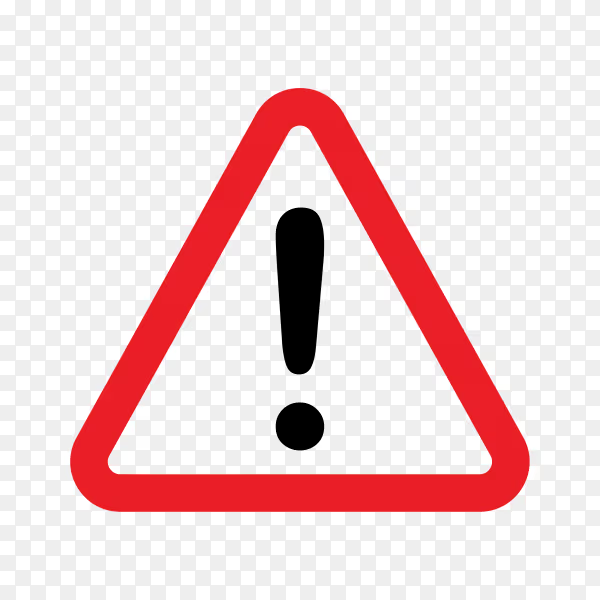
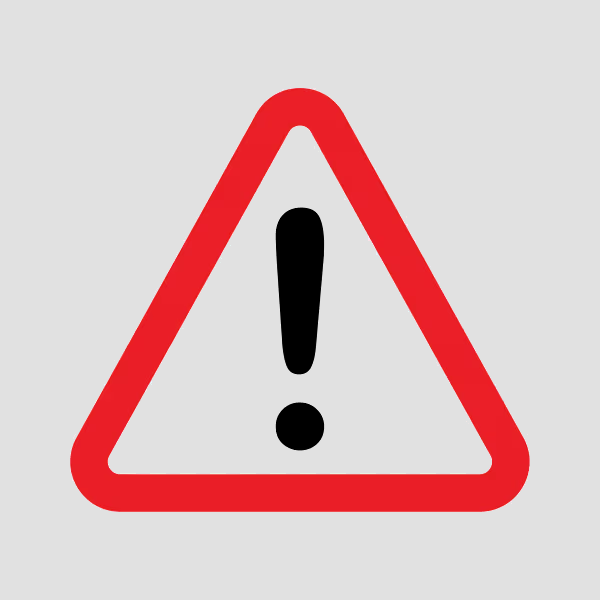
Polish mobility hazard popup UI and tighten alert timing.
Use the cluster green/gray palette, a shrinking countdown bar without a numeric timer, a matching warning icon fill, 3s display duration, and a 3-marker proximity window.

diff --git a/apps/Cluster/qtApp/qml/Screen01.ui.qml b/apps/Cluster/qtApp/qml/Screen01.ui.qml
@@ -515,43 +515,18 @@ Rectangle {
             NumberAnimation { duration: 320; easing.type: Easing.OutCubic }
         }
 
-        property real countdownProgress: 1.0
-
-        function restartCountdown() {
-            if (!systemInfo || !systemInfo.adasWarningTimed)
-                return
-            countdownProgress = 1.0
-            countdownAnim.stop()
-            countdownAnim.duration = Math.max(systemInfo.adasWarningRemainingMs, 250)
-            countdownAnim.from = 1.0
-            countdownAnim.to = 0.0
-            countdownAnim.start()
-        }
-
-        NumberAnimation on countdownProgress {
-            id: countdownAnim
-            duration: 12000
-            easing.type: Easing.Linear
-        }
-
-        Connections {
-            target: systemInfo
-            function onAdasWarningUpdated() {
-                if (systemInfo.adasWarningVisible)
-                    adasWarningNotification.restartCountdown()
-            }
-        }
-
-        onOpacityChanged: {
-            if (opacity > 0.99)
-                restartCountdown()
+        // Drive bar from backend remaining ms so it shrinks every poll (~100ms).
+        property real countdownProgress: {
+            if (!systemInfo || !systemInfo.adasWarningTimed || !systemInfo.adasWarningVisible)
+                return 0
+            return Math.max(0, Math.min(1, systemInfo.adasWarningRemainingMs / 3000.0))
         }
 
         Rectangle {
             anchors.fill: parent
             radius: 12
-            color: "#FFE18D"
-            border.color: "#47473f"
+            color: "#e1e1e1"
+            border.color: "#7aa854"
             border.width: 2
         }
 
@@ -581,7 +556,7 @@ Rectangle {
                     font.pixelSize: 22
                     font.family: "BaseNeueTrial-Bold"
                     font.bold: true
-                    color: "#47473f"
+                    color: "#7aa854"
                     wrapMode: Text.WordWrap
                     maximumLineCount: 2
                     elide: Text.ElideRight
@@ -589,17 +564,15 @@ Rectangle {
                 }
             }
 
-            Row {
+            Item {
                 width: parent.width
-                spacing: 10
+                height: 10
                 visible: systemInfo && systemInfo.adasWarningTimed
 
                 Rectangle {
-                    width: parent.width - 52
-                    height: 10
+                    anchors.fill: parent
                     radius: 2
-                    color: "#47473f"
-                    anchors.verticalCenter: parent.verticalCenter
+                    color: "#c8c8c8"
 
                     Rectangle {
                         anchors.left: parent.left
@@ -607,23 +580,12 @@ Rectangle {
                         anchors.bottom: parent.bottom
                         width: parent.width * adasWarningNotification.countdownProgress
                         radius: 2
-                        color: "#76b047"
-                    }
-                }
+                        color: "#7aa854"
 
-                Text {
-                    width: 42
-                    horizontalAlignment: Text.AlignRight
-                    text: {
-                        if (!systemInfo || !systemInfo.adasWarningTimed)
-                            return ""
-                        return Math.max(1, Math.ceil(systemInfo.adasWarningRemainingMs / 1000)) + "s"
+                        Behavior on width {
+                            NumberAnimation { duration: 120; easing.type: Easing.Linear }
+                        }
                     }
-                    font.pixelSize: 14
-                    font.family: "Inter"
-                    font.bold: true
-                    color: "#47473f"
-                    anchors.verticalCenter: parent.verticalCenter
                 }
             }
         }

diff --git a/apps/Cluster/qtApp/src/systemInfo.hpp b/apps/Cluster/qtApp/src/systemInfo.hpp
@@ -216,9 +216,9 @@ private:
     QString _pendingHazardMessage;
     std::chrono::steady_clock::time_point _pendingHazardExpires{};
     bool _wasNearHazard{false};
-    static constexpr int kMobilityHazardDurationMs = 12000;
+    static constexpr int kMobilityHazardDurationMs = 3000;
     static constexpr int kPendingHazardTtlMs = 10 * 60 * 1000; // remember crash for 10 min
-    static constexpr int kDefaultMarkerProximity = 1; // same or adjacent ArUco marker
+    static constexpr int kDefaultMarkerProximity = 3; // show popup within 3 markers of the hazard
     kuksaLib _kuksa;
     std::unique_ptr<MqttHazardClient> _mqttClient;
     std::thread _thread;
